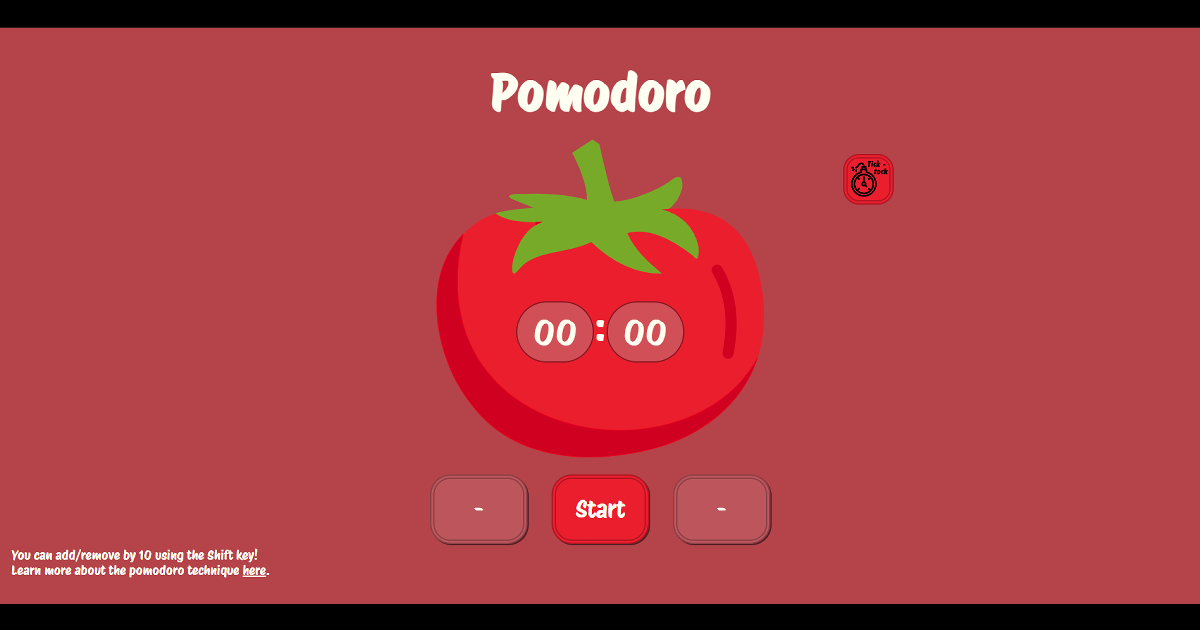
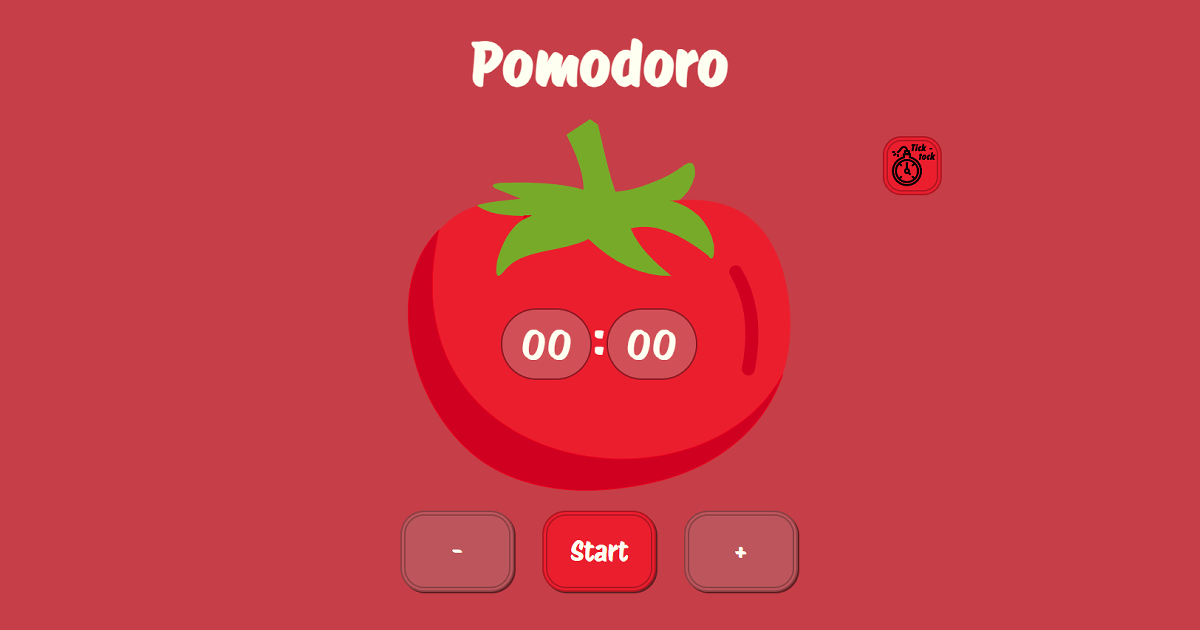
changed bg color and og/preview images

Changed region(s): [[0.0, 0.0, 1.0, 1.0], [0.6783, 0.2111, 0.8017, 0.3317]]

diff --git a/assets/sass/styles.scss b/assets/sass/styles.scss
@@ -4,7 +4,7 @@
 }
 
 body{
-  background-color: #BA4949;
+  background-color: #CB4646;
   @include font-styles;
   text-align: center;
   transition: all ease-in 0.5s;

diff --git a/assets/css/styles.css b/assets/css/styles.css
@@ -1,5 +1,5 @@
 body {
-  background-color: #BA4949;
+  background-color: #CB4646;
   font-family: "Protest Riot", sans-serif;
   color: ivory;
   text-align: center;

diff --git a/README.md b/README.md
@@ -31,9 +31,9 @@
 <h5 href="https://lonneww.github.io/pomodoro/" align="center"> For the site click here</h5>
 
   <p align="center">
-    This project is the pratical exam of the Javascript Basics start2impact University's course. </br>
+    This project is the pratical exam of the Javascript Basics <a href="https://www.start2impact.it"> start2impact University's </a> course. </br>
     The task was to create a "counter" application where the user could increase or decrease the visible number by pressing one of the buttons.
-     Since I often use the pomodoro tecnique to study I thought it will be more interesting, challenging and generally useful to create a timer instead of a simple counter.
+    Since I often use the pomodoro tecnique to study I thought it will be more interesting, challenging and generally useful to create a timer instead of a simple counter.
   </p>
 </div>
 
